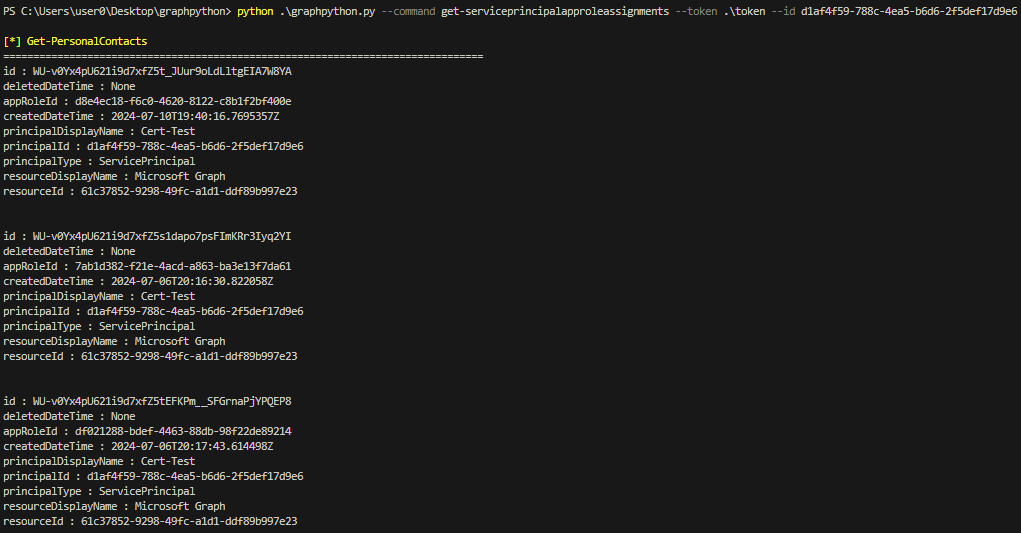
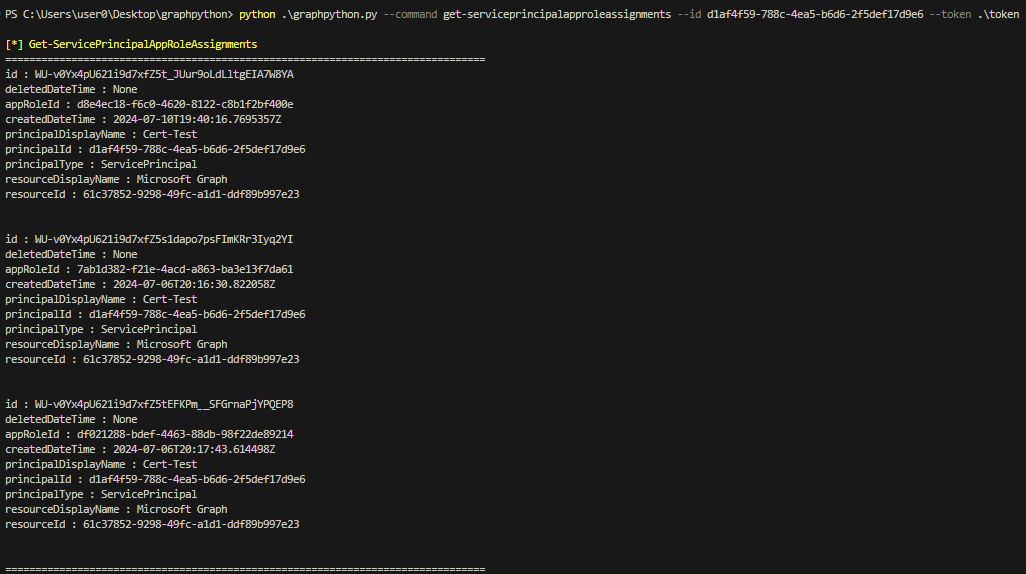
Updates

Changed region(s): [[0.0, 0.06, 0.4858, 1.0], [0.0, 0.0, 1.0, 0.06]]

diff --git a/graphpython.py b/graphpython.py
@@ -182,9 +182,9 @@ def list_commands():
         ["Wipe-Device", "Wipe managed device"],
     ]
 
-    helper_commands = [
-        ["Find-ObjectID", "Find object ID and display object properties"],
-        ["Find-PermissionID", "Identify Graph permission details (application/delegated, description, admin consent required, ...) for ID"]
+    locator_commands = [
+        ["Locate-ObjectID", "Locate object ID and display object properties"],
+        ["Locate-PermissionID", "Locate Graph permission details (application/delegated, description, admin consent required, ...) for ID"]
     ]
 
     print("\nOutsider")
@@ -216,9 +216,9 @@ def list_commands():
     print(tabulate(cleanup_commands, tablefmt="plain"))
     print("\n")
 
-    print("\nHelpers")
+    print("\nLocators")
     print("=" * 80)
-    print(tabulate(helper_commands, tablefmt="plain"))
+    print(tabulate(locator_commands, tablefmt="plain"))
     print("\n")
 
 def forge_user_agent(device=None, browser=None):
@@ -647,7 +647,7 @@ def main():
     "list-sharepointsites","list-sharepointurls", "list-externalconnections", "list-applications", "list-serviceprincipals", "list-tenants", "list-joinedteams", 
     "list-chats", "list-chatmessages", "list-devices", "list-administrativeunits", "list-onedrives", "list-recentonedrivefiles", "list-onedriveurls",
     "list-sharedonedrivefiles", "invoke-customquery", "invoke-search", "find-privilegedroleusers", "find-updatablegroups", "find-dynamicgroups","find-securitygroups", 
-    "find-objectid", "update-userpassword", "add-applicationpassword", "add-usertap", "add-groupmember", "create-application", 
+    "locate-objectid", "update-userpassword", "add-applicationpassword", "add-usertap", "add-groupmember", "create-application", 
     "create-newuser", "invite-guestuser", "assign-privilegedrole", "open-owamailboxinbrowser", "dump-owamailbox", "spoof-owaemailmessage", 
     "delete-user", "delete-group", "remove-groupmember", "delete-application", "delete-device", "wipe-device", "retire-device",
     "get-manageddevices", "get-userdevices", "get-caps", "get-devicecategories", "get-devicecompliancepolicies", 
@@ -657,7 +657,7 @@ def main():
     "get-roledefinitions", "get-roleassignments", "display-avpolicyrules", "display-asrpolicyrules", "display-diskencryptionpolicyrules", 
     "display-firewallrulepolicyrules", "display-lapsaccountprotectionpolicyrules", "display-usergroupaccountprotectionpolicyrules", 
     "display-edrpolicyrules","add-exclusiongrouptopolicy", "deploy-maliciousscript", "reboot-device", "shutdown-device", "lock-device", 
-    "add-applicationpermission", "new-signedjwt", "add-applicationcertificate", "get-application", "find-permissionid", "get-serviceprincipal"
+    "add-applicationpermission", "new-signedjwt", "add-applicationcertificate", "get-application", "locate-permissionid", "get-serviceprincipal"
 ]
 
 
@@ -730,7 +730,7 @@ def main():
             "list-applications", "list-serviceprincipals", "list-tenants", "list-joinedteams", "list-chats", 
             "list-chatmessages", "list-devices", "list-administrativeunits", "list-onedrives", "list-recentonedrivefiles", "list-onedriveurls",
             "list-sharedonedrivefiles", "invoke-customquery", "invoke-search", "find-privilegedroleusers", 
-            "find-updatablegroups", "find-dynamicgroups","find-securitygroups", "find-objectid", "update-userpassword", "add-applicationpassword", 
+            "find-updatablegroups", "find-dynamicgroups","find-securitygroups", "locate-objectid", "update-userpassword", "add-applicationpassword", 
             "add-usertap", "add-groupmember", "create-application", "create-newuser", "invite-guestuser", 
             "assign-privilegedrole", "open-owamailboxinbrowser", "dump-owamailbox", "spoof-owaemailmessage", 
             "delete-user", "delete-group", "remove-groupmember", "delete-application", "delete-device", "wipe-device", "retire-device",
@@ -2571,7 +2571,7 @@ def main():
 
     # get-serviceprincipalapproleassignments
     elif args.command and args.command.lower() == "get-serviceprincipalapproleassignments":
-        print_yellow("\n[*] Get-PersonalContacts")
+        print_yellow("\n[*] Get-ServicePrincipalAppRoleAssignments")
         print("=" * 80)
         api_url = f"https://graph.microsoft.com/v1.0/servicePrincipals/{args.id}/appRoleAssignments"
         if args.select:
@@ -5715,17 +5715,17 @@ openssl pkcs12 -export -out certificate.pfx -inkey private.key -in certificate.c
         print("=" * 80)
 
 
-    ##########
-    # Helper #
-    ##########
+    #############
+    # Resolvers #
+    #############
     
-    # find-objectid
-    elif args.command and args.command.lower() == "find-objectid":
+    # locate-objectid
+    elif args.command and args.command.lower() == "locate-objectid":
         if not args.id:
-            print_red("[-] Error: --id required for Find-ObjectID command")
+            print_red("[-] Error: --id required for Locate-ObjectID command")
             return
 
-        print_yellow("\n[*] Find-ObjectID")
+        print_yellow("\n[*] Locate-ObjectID")
         print("=" * 80)
         graph_api_url = "https://graph.microsoft.com/v1.0"
         object_url = f"{graph_api_url}/directoryObjects/{args.id}"
@@ -5808,13 +5808,13 @@ openssl pkcs12 -export -out certificate.pfx -inkey private.key -in certificate.c
 
         print("=" * 80)
 
-    # find-permissionid
-    elif args.command and args.command.lower() == "find-permissionid":
+    # locate-permissionid
+    elif args.command and args.command.lower() == "locate-permissionid":
         if not args.id:
-            print_red("[-] Error: --id argument is required for Find-PermissionID command")
+            print_red("[-] Error: --id argument is required for Locate-PermissionID command")
             return
 
-        print_yellow("\n[*] Find-PermissionID")
+        print_yellow("\n[*] Locate-PermissionID")
         print("=" * 80)
         def parse_html(content):
             soup = BeautifulSoup(content, 'html.parser')
